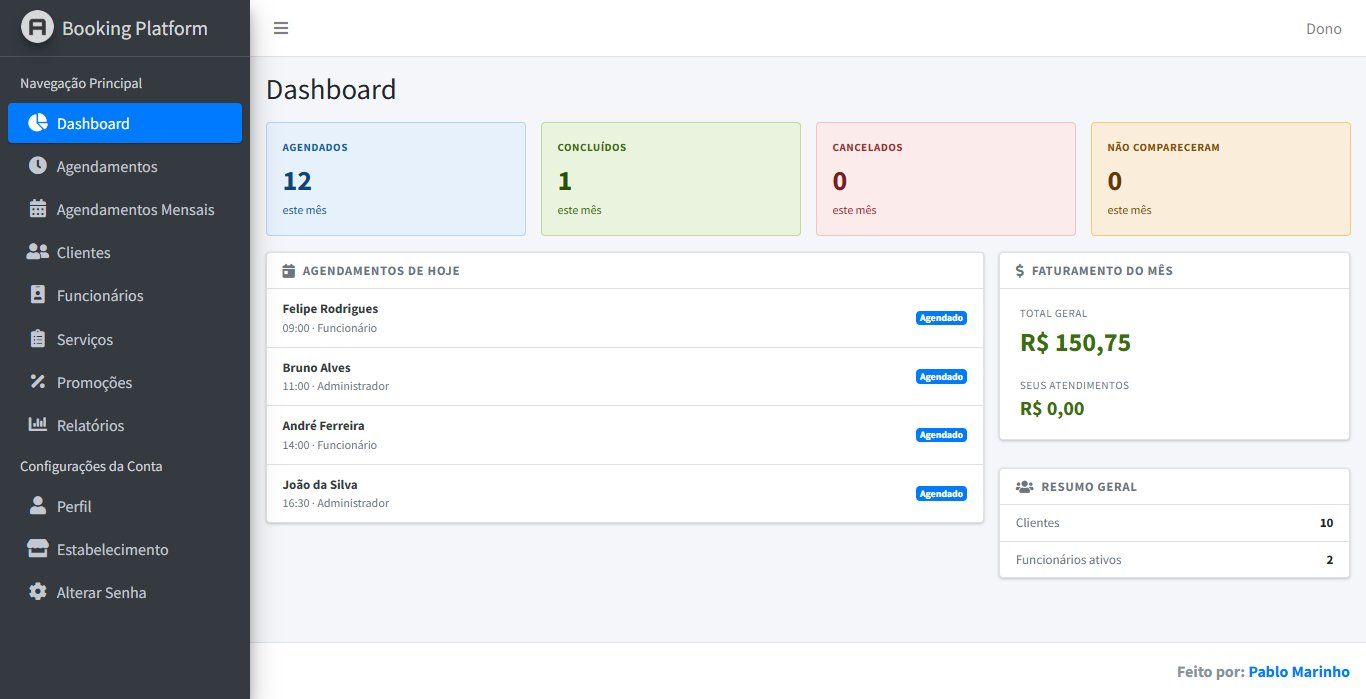
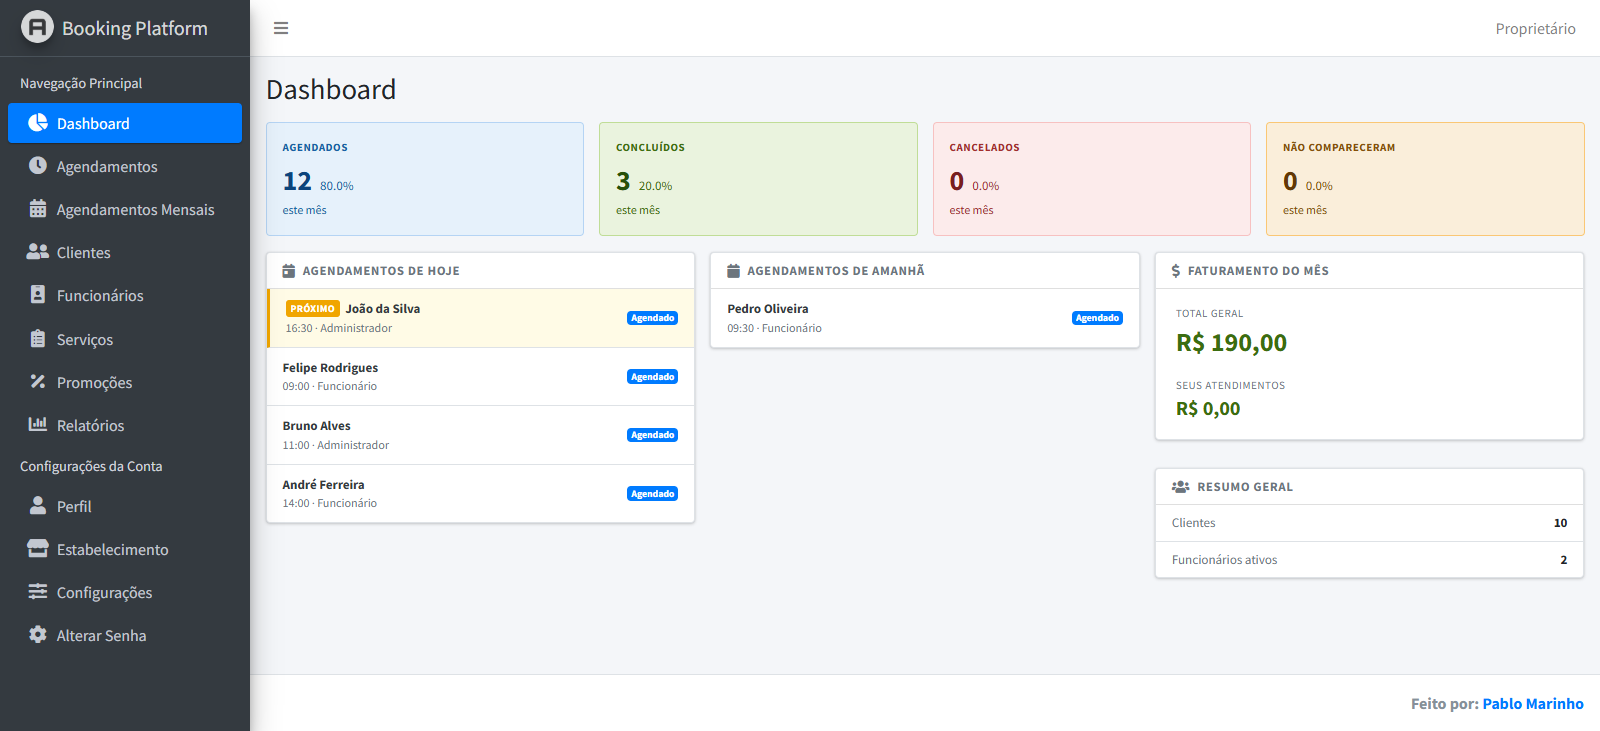
Feito alguns ajustes na Dashboard

diff --git a/resources/views/home.blade.php b/resources/views/home.blade.php
@@ -7,13 +7,22 @@
 
 @section('content')
   {{-- Cards de status --}}
+  @php
+    $totalMonthAppointments = array_sum($statusCounts->toArray());
+    $pct = fn($key) => $totalMonthAppointments > 0
+      ? number_format(($statusCounts[$key] ?? 0) / $totalMonthAppointments * 100, 1)
+      : '0,0';
+  @endphp
   <div class="row mb-3">
     <div class="col-md-3">
       <div class="rounded p-3 h-100" style="background:#E6F1FB;border:0.5px solid #B5D4F4;">
         <div class="text-uppercase font-weight-bold mb-1" style="font-size:11px;letter-spacing:.05em;color:#185FA5;">
           Agendados
         </div>
-        <div class="font-weight-bold" style="font-size:28px;color:#0C447C;">{{ $statusCounts['scheduled'] ?? 0 }}</div>
+        <div class="d-flex align-items-baseline" style="gap:8px;">
+          <div class="font-weight-bold" style="font-size:28px;color:#0C447C;">{{ $statusCounts['scheduled'] ?? 0 }}</div>
+          <div style="font-size:13px;color:#185FA5;">{{ $pct('scheduled') }}%</div>
+        </div>
         <div style="font-size:12px;color:#185FA5;">este mês</div>
       </div>
     </div>
@@ -22,7 +31,10 @@
         <div class="text-uppercase font-weight-bold mb-1" style="font-size:11px;letter-spacing:.05em;color:#3B6D11;">
           Concluídos
         </div>
-        <div class="font-weight-bold" style="font-size:28px;color:#27500A;">{{ $statusCounts['completed'] ?? 0 }}</div>
+        <div class="d-flex align-items-baseline" style="gap:8px;">
+          <div class="font-weight-bold" style="font-size:28px;color:#27500A;">{{ $statusCounts['completed'] ?? 0 }}</div>
+          <div style="font-size:13px;color:#3B6D11;">{{ $pct('completed') }}%</div>
+        </div>
         <div style="font-size:12px;color:#3B6D11;">este mês</div>
       </div>
     </div>
@@ -31,7 +43,10 @@
         <div class="text-uppercase font-weight-bold mb-1" style="font-size:11px;letter-spacing:.05em;color:#A32D2D;">
           Cancelados
         </div>
-        <div class="font-weight-bold" style="font-size:28px;color:#791F1F;">{{ $statusCounts['cancelled'] ?? 0 }}</div>
+        <div class="d-flex align-items-baseline" style="gap:8px;">
+          <div class="font-weight-bold" style="font-size:28px;color:#791F1F;">{{ $statusCounts['cancelled'] ?? 0 }}</div>
+          <div style="font-size:13px;color:#A32D2D;">{{ $pct('cancelled') }}%</div>
+        </div>
         <div style="font-size:12px;color:#A32D2D;">este mês</div>
       </div>
     </div>
@@ -40,7 +55,10 @@
         <div class="text-uppercase font-weight-bold mb-1" style="font-size:11px;letter-spacing:.05em;color:#854F0B;">Não
           compareceram
         </div>
-        <div class="font-weight-bold" style="font-size:28px;color:#633806;">{{ $statusCounts['no_show'] ?? 0 }}</div>
+        <div class="d-flex align-items-baseline" style="gap:8px;">
+          <div class="font-weight-bold" style="font-size:28px;color:#633806;">{{ $statusCounts['no_show'] ?? 0 }}</div>
+          <div style="font-size:13px;color:#854F0B;">{{ $pct('no_show') }}%</div>
+        </div>
         <div style="font-size:12px;color:#854F0B;">este mês</div>
       </div>
     </div>
@@ -48,15 +66,49 @@
 
   <div class="row mb-3">
     {{-- Agendamentos de hoje --}}
-    <div class="col-md-8">
+    <div class="col-md-4">
       <div class="card border">
         <div class="card-header py-2 px-3 d-flex align-items-center">
           <i class="fas fa-calendar-day fa-sm mr-2 text-muted"></i>
-          <small class="text-uppercase text-muted font-weight-bold" style="letter-spacing:.05em;">Agendamentos de
-            hoje</small>
+          <small class="text-uppercase text-muted font-weight-bold" style="letter-spacing:.05em;">Agendamentos de hoje</small>
         </div>
         <div class="card-body p-0">
           @forelse($todayAppointments as $appointment)
+            @php $isNext = $nextAppointment && $appointment->uuid === $nextAppointment->uuid; @endphp
+            <a href="{{ route('appointments.show', $appointment) }}"
+               class="text-decoration-none text-dark appointment-link {{ $isNext ? 'next-appointment' : '' }}"
+               style="display:flex; align-items:center; justify-content:space-between; width:100%; padding:10px 16px; border-bottom:0.5px solid #dee2e6; font-size:13px; {{ $isNext ? 'background:#fffbe6; border-left:3px solid #f0a500 !important;' : '' }}">
+              <div>
+                <div class="font-weight-bold d-flex align-items-center gap-1">
+                  @if($isNext)
+                    <span style="font-size:10px; background:#f0a500; color:#fff; border-radius:3px; padding:1px 5px; margin-right:5px; letter-spacing:.04em; font-weight:700; text-transform:uppercase;">Próximo</span>
+                  @endif
+                  {{ $appointment->client->name }}
+                </div>
+                <div class="text-muted" style="font-size:12px;">
+                  {{ $appointment->scheduled_time }} · {{ $appointment->user->name }}
+                </div>
+              </div>
+              <span class="badge badge-{{ $appointment->status_color }}" style="white-space:nowrap; margin-left:12px;">
+                {{ $appointment->status_formatted }}
+              </span>
+            </a>
+          @empty
+            <div class="text-center text-muted py-4" style="font-size:13px;">Nenhum agendamento para hoje.</div>
+          @endforelse
+        </div>
+      </div>
+    </div>
+
+    {{-- Agendamentos de amanhã --}}
+    <div class="col-md-4">
+      <div class="card border">
+        <div class="card-header py-2 px-3 d-flex align-items-center">
+          <i class="fas fa-calendar fa-sm mr-2 text-muted"></i>
+          <small class="text-uppercase text-muted font-weight-bold" style="letter-spacing:.05em;">Agendamentos de amanhã</small>
+        </div>
+        <div class="card-body p-0">
+          @forelse($tomorrowAppointments as $appointment)
             <a href="{{ route('appointments.show', $appointment) }}"
                class="text-decoration-none text-dark appointment-link"
                style="display:flex; align-items:center; justify-content:space-between; width:100%; padding:10px 16px; border-bottom:0.5px solid #dee2e6; font-size:13px;">
@@ -67,11 +119,11 @@
                 </div>
               </div>
               <span class="badge badge-{{ $appointment->status_color }}" style="white-space:nowrap; margin-left:12px;">
-            {{ $appointment->status_formatted }}
-        </span>
+                {{ $appointment->status_formatted }}
+              </span>
             </a>
           @empty
-            <div class="text-center text-muted py-4" style="font-size:13px;">Nenhum agendamento para hoje.</div>
+            <div class="text-center text-muted py-4" style="font-size:13px;">Nenhum agendamento para amanhã.</div>
           @endforelse
         </div>
       </div>

diff --git a/app/Http/Controllers/HomeController.php b/app/Http/Controllers/HomeController.php
@@ -43,6 +43,23 @@ class HomeController extends Controller
       ->orderBy('scheduled_at')
       ->get();
 
+    $nextAppointment = $todayAppointments
+      ->where('status', AppointmentStatus::Scheduled)
+      ->where('scheduled_at', '>=', now())
+      ->first();
+
+    if ($nextAppointment) {
+      $todayAppointments = collect([$nextAppointment])
+        ->concat($todayAppointments->reject(fn($a) => $a->uuid === $nextAppointment->uuid));
+    }
+
+    $tomorrowAppointments = Appointment::query()
+      ->whereDate('scheduled_at', today()->addDay())
+      ->when(!$isOwner, fn($q) => $q->where('user_uuid', $user->uuid))
+      ->with(['client', 'user'])
+      ->orderBy('scheduled_at')
+      ->get();
+
     $revenueQuery = AppointmentService::query()
       ->whereHas('appointment', fn($q) => $q
         ->whereMonth('scheduled_at', $month)
@@ -68,6 +85,8 @@ class HomeController extends Controller
     return view('home', compact(
       'statusCounts',
       'todayAppointments',
+      'nextAppointment',
+      'tomorrowAppointments',
       'monthlyRevenue',
       'myMonthlyRevenue',
       'totalClients',
